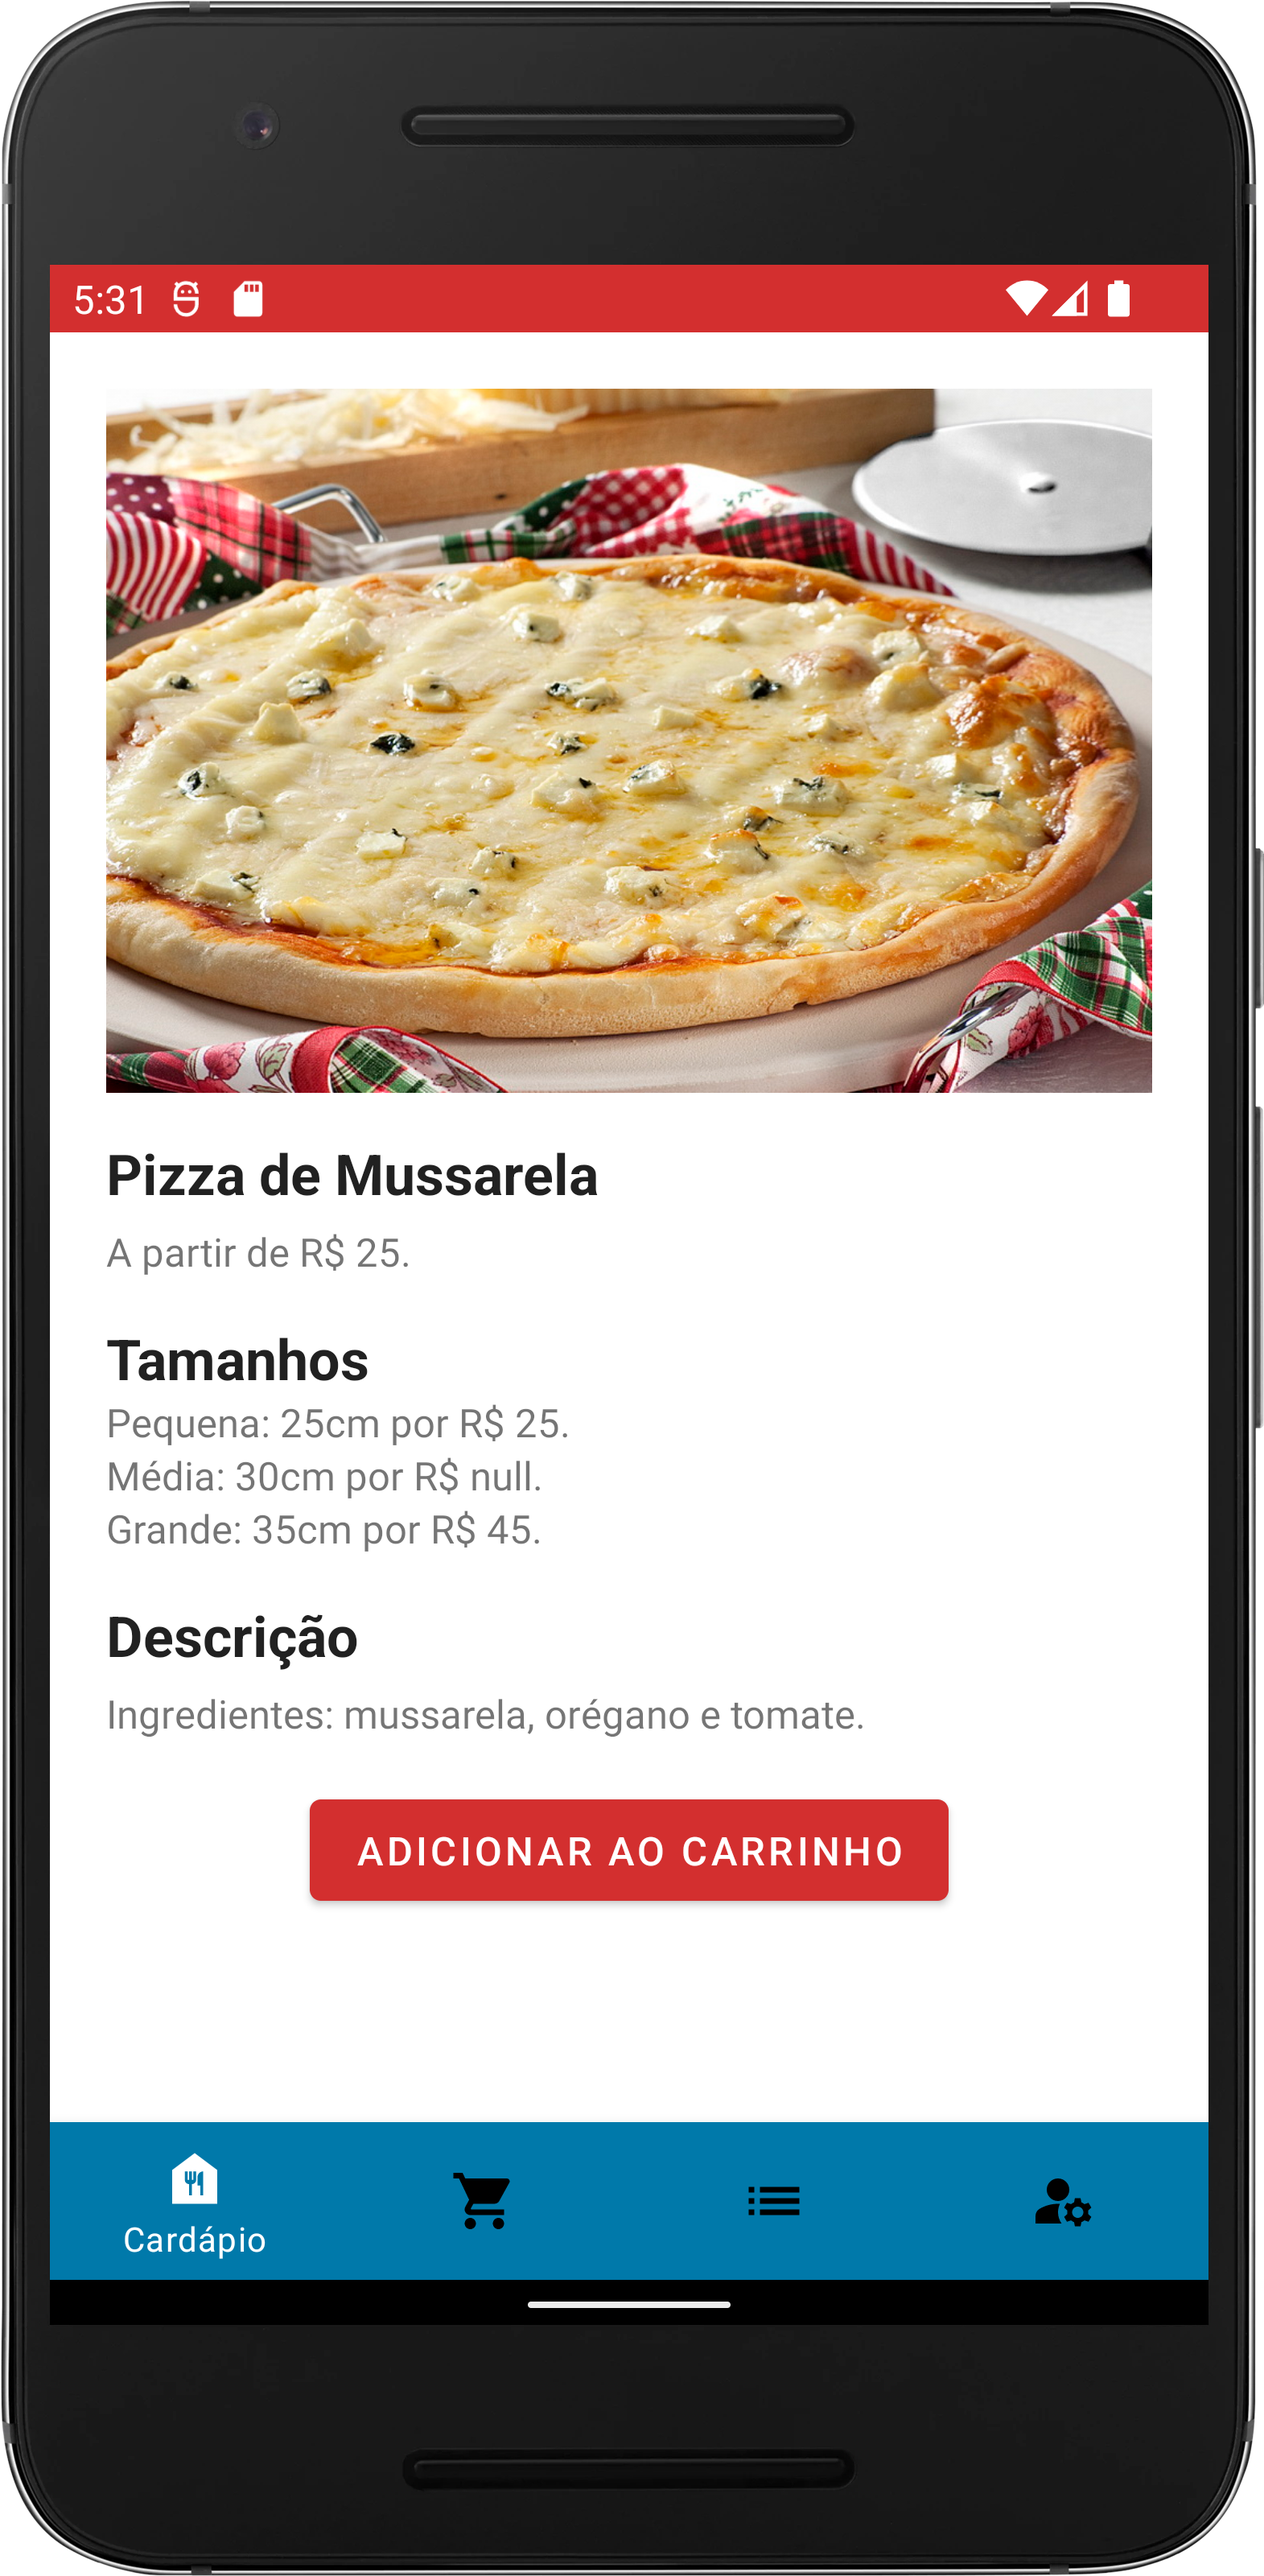
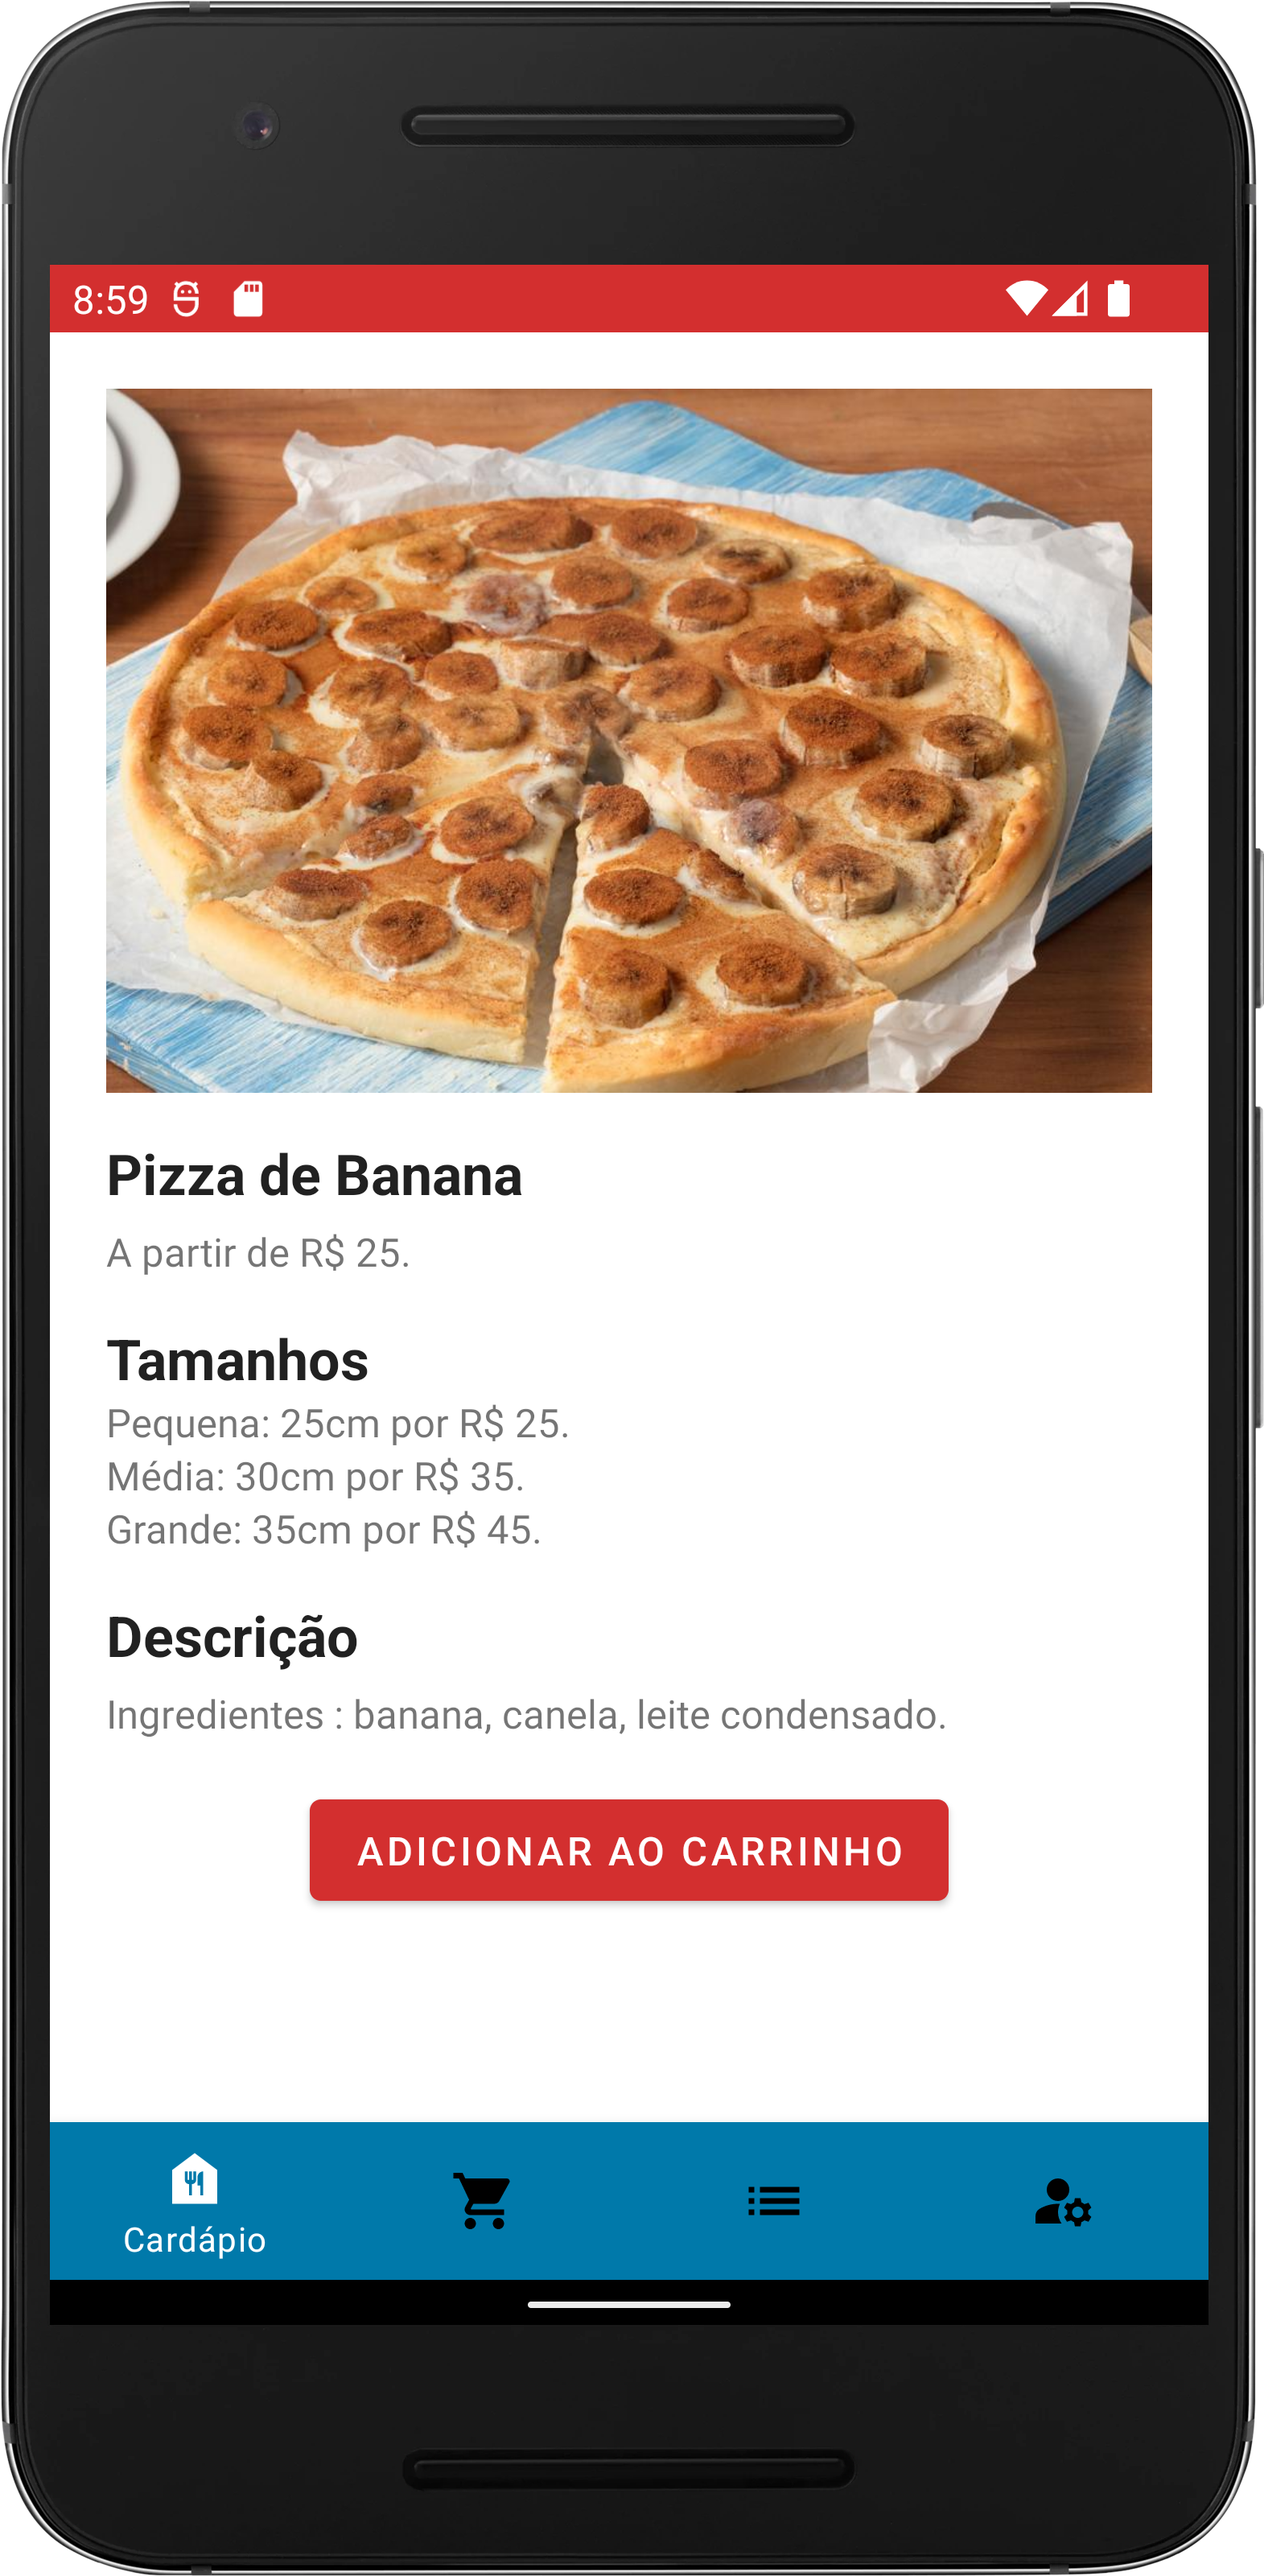
assets

Changed region(s): [[0.0624, 0.0937, 0.9357, 0.4686], [0.2807, 0.656, 0.7486, 0.6873], [0.3743, 0.5623, 0.4055, 0.5936]]

diff --git a/app/src/main/java/com/voltaire/fenicios/ui_innerApp/productsdetails/ProductDetailsFragment.kt b/app/src/main/java/com/voltaire/fenicios/ui_innerApp/productsdetails/ProductDetailsFragment.kt
@@ -58,7 +58,7 @@ class ProductDetailsFragment : Fragment(R.layout.fragment_product_details) {
             detailPrice.text = getString(R.string.defaultPrice, product.prices!!["Pequena"])
 
             detailSmallPrice.text = getString(R.string.smallPrice, product.prices!!["Pequena"])
-            detailAveragePrice.text = getString(R.string.averagePrice, product.prices!!["Media"])
+            detailAveragePrice.text = getString(R.string.averagePrice, product.prices!!["Média"])
             detailBigPrice.text = getString(R.string.bigPrice, product.prices!!["Grande"])
 
         }
